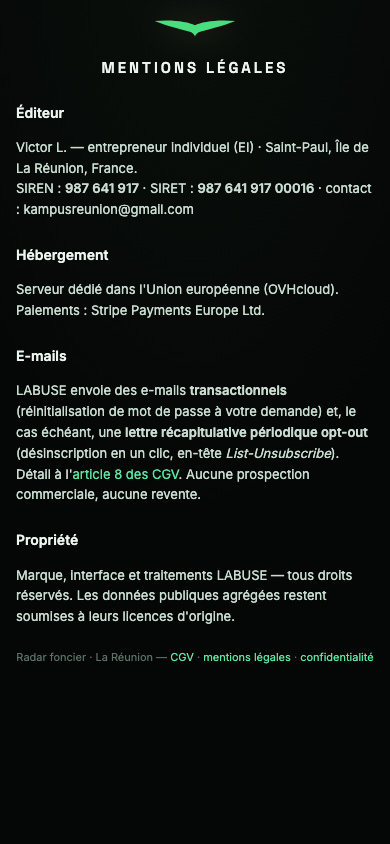
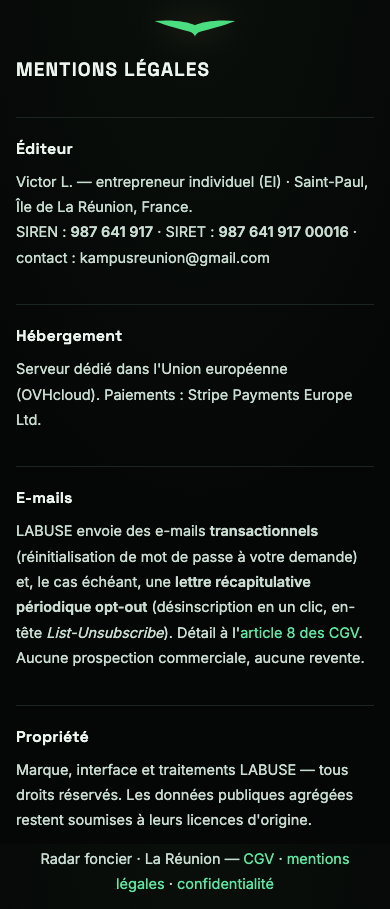
[S3] Lisibilité des pages légales : colonne de lecture, hiérarchie, sommaire CGV
- coffre_ui : mode 'legalpage' (lecture du haut, plus de bloc centré vertical), colonne ~68ch,
  articles séparés par un filet, titres Space Grotesk, interligne 1.75, corps 14.5px.
- CGV : sommaire cliquable (11 articles) en tête + ancres id + retour « ↑ Haut de page ».
- Les 3 pages légales rendues en large=True (760 conteneur / 68ch lecture), mobile 390 sans zoom.
- Fond juridique inchangé (hors S1). Planche mise à jour (verdict DA légal → lisibilité refondue).
- tests/test_legal_lisibilite.py.

diff --git a/docs/audit-2026-08/ONBOARDING/PLANCHE-ECRANS.html b/docs/audit-2026-08/ONBOARDING/PLANCHE-ECRANS.html
@@ -126,21 +126,21 @@
     </div>
   </section>
   <section class="ecran" id="14-cgv">
-    <div class="tete"><h2>CGV</h2><code>GET /cgv</code><span class="da warn">DA Coffre ✓ mais LISIBILITÉ ✗ : bloc central étroit, texte dense (corrigé en S3)</span></div>
+    <div class="tete"><h2>CGV</h2><code>GET /cgv</code><span class="da ok">DA Coffre ✓ · LISIBILITÉ refondue (S3) : sommaire, colonne ~68ch, articles séparés</span></div>
     <div class="vues">
       <figure class="desk"><figcaption>Desktop · 1440</figcaption><img loading="lazy" src="planche/14-cgv-desktop.png" alt="CGV desktop"></figure>
       <figure class="mob"><figcaption>Mobile · 390</figcaption><img loading="lazy" src="planche/14-cgv-mobile.png" alt="CGV mobile"></figure>
     </div>
   </section>
   <section class="ecran" id="15-mentions-legales">
-    <div class="tete"><h2>Mentions légales</h2><code>GET /mentions-legales</code><span class="da warn">DA Coffre ✓ mais LISIBILITÉ ✗ : bloc central étroit, texte dense (corrigé en S3)</span></div>
+    <div class="tete"><h2>Mentions légales</h2><code>GET /mentions-legales</code><span class="da ok">DA Coffre ✓ · LISIBILITÉ refondue (S3) : sommaire, colonne ~68ch, articles séparés</span></div>
     <div class="vues">
       <figure class="desk"><figcaption>Desktop · 1440</figcaption><img loading="lazy" src="planche/15-mentions-legales-desktop.png" alt="Mentions légales desktop"></figure>
       <figure class="mob"><figcaption>Mobile · 390</figcaption><img loading="lazy" src="planche/15-mentions-legales-mobile.png" alt="Mentions légales mobile"></figure>
     </div>
   </section>
   <section class="ecran" id="16-confidentialite">
-    <div class="tete"><h2>Confidentialité & cookies</h2><code>GET /confidentialite</code><span class="da warn">DA Coffre ✓ mais LISIBILITÉ ✗ : bloc central étroit, texte dense (corrigé en S3)</span></div>
+    <div class="tete"><h2>Confidentialité & cookies</h2><code>GET /confidentialite</code><span class="da ok">DA Coffre ✓ · LISIBILITÉ refondue (S3) : sommaire, colonne ~68ch, articles séparés</span></div>
     <div class="vues">
       <figure class="desk"><figcaption>Desktop · 1440</figcaption><img loading="lazy" src="planche/16-confidentialite-desktop.png" alt="Confidentialité & cookies desktop"></figure>
       <figure class="mob"><figcaption>Mobile · 390</figcaption><img loading="lazy" src="planche/16-confidentialite-mobile.png" alt="Confidentialité & cookies mobile"></figure>

diff --git a/src/labuse/api/onboarding.py b/src/labuse/api/onboarding.py
@@ -457,19 +457,32 @@ def cgv_page():
     s = get_settings()
     oi, of = offre_integral(), offre_flash()
     return HTMLResponse(_page("conditions générales", f"""
-<div class="legal">
+<div class="legal" id="haut">
 <h1>Conditions générales de vente et d'utilisation</h1>
 <p class="sous">version {s.cgv_version} — service LABUSE</p>
 <p class="maj">Contrat B2B entre professionnels. L'acceptation est recueillie à la création du
 compte (case à cocher horodatée, version consignée).</p>
+<nav class="toc" aria-label="Sommaire"><b>Sommaire</b><ol>
+<li><a href="#a1">Objet</a></li>
+<li><a href="#a2">Nature des analyses</a></li>
+<li><a href="#a3">Comptes et accès</a></li>
+<li><a href="#a4">Prix et paiement</a></li>
+<li><a href="#a4bis">Le rapport Flash</a></li>
+<li><a href="#a5">Durée et résiliation</a></li>
+<li><a href="#a6">Disponibilité</a></li>
+<li><a href="#a7">Données et données publiques</a></li>
+<li><a href="#a8">Données personnelles (RGPD)</a></li>
+<li><a href="#a9">Responsabilité</a></li>
+<li><a href="#a10">Droit applicable</a></li>
+</ol></nav>
 
-<h2>1. Objet</h2>
+<h2 id="a1">1. Objet</h2>
 <p>LABUSE est un service en ligne d'aide à la prospection foncière à La Réunion :
 agrégation, croisement et lecture de <b>données publiques</b> (cadastre, urbanisme, risques,
 marchés, publications légales), assortis d'indicateurs et d'analyses produits par des
 traitements automatisés.</p>
 
-<h2>2. Nature des analyses — la clause boussole</h2>
+<h2 id="a2">2. Nature des analyses — la clause boussole</h2>
 <p>Les scores, verdicts, badges, estimations et synthèses fournis par LABUSE constituent une
 <b>pré-analyse indicative fondée exclusivement sur des données publiques</b>, dont la
 fraîcheur et la complétude sont affichées dans le service (mentions « Sourcé » / « Estimé »).
@@ -479,14 +492,14 @@ Ils ne remplacent <b>ni un certificat d'urbanisme, ni l'instruction d'une autori
 l'intervention d'un notaire</b> ou de tout professionnel réglementé. Le Client demeure seul
 responsable de ses décisions et de leurs vérifications préalables.</p>
 
-<h2>3. Comptes et accès</h2>
+<h2 id="a3">3. Comptes et accès</h2>
 <p>La création de compte se fait sur invitation. Une licence Intégral ouvre <b>un accès
 nominatif unique</b> (1 licence = 1 utilisateur) ; les identifiants sont personnels et
 incessibles. LABUSE peut suspendre un compte en cas d'impayé (après les relances du
 prestataire de paiement) ou d'usage abusif (extraction massive, revente de données,
 partage d'accès, contournement technique).</p>
 
-<h2>4. Prix et paiement</h2>
+<h2 id="a4">4. Prix et paiement</h2>
 <p><b>Intégral</b> : abonnement mensuel de {oi['eur_mois']} € par licence, accès complet au service.
 <b>Flash</b> : {of['eur']} € par rapport — paiement unique donnant droit à UN rapport PDF portant
 sur UNE parcelle, téléchargeable pendant {of['validite_lien_jours']} jours (article 4 bis). Prix hors taxes le cas
@@ -494,7 +507,7 @@ sur UNE parcelle, téléchargeable pendant {of['validite_lien_jours']} jours (ar
 <b>Stripe</b> (paiement hébergé : aucune donnée de carte ne transite par LABUSE), factures
 et reçus émis par Stripe.</p>
 
-<h2>4 bis. Le rapport Flash</h2>
+<h2 id="a4bis">4 bis. Le rapport Flash</h2>
 <p>Le rapport Flash est un document numérique généré et livré immédiatement après paiement.
 <b>L'exécution commence dès le paiement, à la demande expresse de l'acheteur, qui renonce
 le cas échéant à son droit de rétractation</b> (contenu numérique fourni immédiatement).
@@ -502,7 +515,7 @@ Le rapport porte exclusivement sur la parcelle confirmée par l'acheteur avant p
 l'article 2 (nature des analyses) s'y applique intégralement. En cas d'échec technique de
 génération, LABUSE fournit le rapport par tout moyen ou rembourse le paiement.</p>
 
-<h2>5. Durée et résiliation</h2>
+<h2 id="a5">5. Durée et résiliation</h2>
 <p>L'abonnement Intégral est <b>mensuel et sans engagement de durée</b> : il se reconduit tacitement
 de mois en mois par prélèvement automatique, tant que le Client ne l'a pas résilié.</p>
 <p>Le Client peut résilier <b>à tout moment</b> par <b>demande écrite adressée à LABUSE</b>
@@ -512,19 +525,19 @@ Aucun engagement au-delà du mois en cours n'est requis.</p>
 <p>LABUSE peut de son côté résilier l'abonnement avec un <b>préavis de 30 jours</b> ; en cas d'arrêt
 du service, les sommes correspondant à la période payée non servie sont remboursées.</p>
 
-<h2>6. Disponibilité</h2>
+<h2 id="a6">6. Disponibilité</h2>
 <p>LABUSE est fourni « en l'état », avec un engagement de <b>meilleurs efforts</b> sur la
 disponibilité et la correction des incidents — sans niveau de service (SLA) chiffré ni
 pénalités. Les interruptions de maintenance sont, autant que possible, programmées hors
 heures ouvrées de La Réunion.</p>
 
-<h2>7. Données du Client et données publiques</h2>
+<h2 id="a7">7. Données du Client et données publiques</h2>
 <p>Les projets, tris, annotations et paramètres créés par le Client lui appartiennent ; il
 peut en demander l'export puis l'effacement. Les données publiques agrégées restent régies
 par leurs licences d'origine (Licence Ouverte, etc.). Le Client s'interdit la revente ou la
 rediffusion systématique des contenus du service.</p>
 
-<h2>8. Données personnelles (RGPD)</h2>
+<h2 id="a8">8. Données personnelles (RGPD)</h2>
 <p>Données traitées : email, nom du compte, journal technique de connexion, données de
 facturation (chez Stripe). Aucune donnée de carte chez LABUSE. Finalités : fourniture du
 service, facturation, sécurité. Durée : la vie du compte, puis effacement sous 30 jours de
@@ -537,16 +550,17 @@ adresser une <b>lettre récapitulative périodique</b> (« le point de la semain
 chaque envoi porte un lien de <b>désinscription en un clic</b> (en-tête <i>List-Unsubscribe</i>) et
 vous pouvez vous y opposer à tout moment. <b>Aucune prospection commerciale, aucune revente de données.</b></p>
 
-<h2>9. Responsabilité</h2>
+<h2 id="a9">9. Responsabilité</h2>
 <p>Dans les limites permises par la loi entre professionnels, la responsabilité totale de
 LABUSE, toutes causes confondues, est plafonnée aux <b>sommes effectivement payées par le
 Client au cours des douze (12) derniers mois</b>. Les dommages indirects (perte de chance,
 d'exploitation, décision d'investissement) sont exclus — dans le prolongement de l'article 2.</p>
 
-<h2>10. Droit applicable</h2>
+<h2 id="a10">10. Droit applicable</h2>
 <p>Droit français. Compétence : les tribunaux dans le ressort de Saint-Denis de La Réunion,
 après tentative de résolution amiable (30 jours).</p>
-</div>"""), status_code=200)
+<p><a class="haut" href="#haut">↑ Haut de page</a></p>
+</div>""", large=True), status_code=200)
 
 
 @router.get("/mentions-legales", include_in_schema=False)
@@ -561,7 +575,7 @@ passe à votre demande) et, le cas échéant, une <b>lettre récapitulative pér
 (désinscription en un clic, en-tête <i>List-Unsubscribe</i>). Détail à l'<a href="/cgv">article 8
 des CGV</a>. Aucune prospection commerciale, aucune revente.</p>
 <h2>Propriété</h2><p>Marque, interface et traitements LABUSE — tous droits réservés. Les
-données publiques agrégées restent soumises à leurs licences d'origine.</p></div>"""))
+données publiques agrégées restent soumises à leurs licences d'origine.</p></div>""", large=True))
 
 
 @router.get("/confidentialite", include_in_schema=False)
@@ -575,7 +589,7 @@ d'audience tierce — c'est pourquoi <b>aucun bandeau de consentement n'est requ
 <h2>Données</h2><p>Voir l'article 8 des <a href="/cgv">CGV</a> (RGPD) : données minimales,
 finalités limitées, droit d'accès et d'effacement sur simple email.</p>
 <h2>Journalisation</h2><p>Les journaux techniques (connexions, erreurs) ne contiennent ni
-mot de passe, ni token, ni donnée de carte ; ils servent la sécurité du service.</p></div>"""))
+mot de passe, ni token, ni donnée de carte ; ils servent la sécurité du service.</p></div>""", large=True))
 
 
 # ── /moi — l'app lit qui je suis + l'état d'abonnement (bandeau « paiement requis ») ──

diff --git a/src/labuse/api/coffre_ui.py b/src/labuse/api/coffre_ui.py
@@ -112,9 +112,26 @@ a:focus-visible{outline:2px solid var(--mint);outline-offset:2px;border-radius:3
 .big .mark{width:52px;height:52px;border-radius:50%;display:flex;align-items:center;justify-content:center;margin:0 auto 14px;font-size:24px}
 .mark.ok{background:rgba(92,230,161,.12);color:var(--mint);border:1px solid rgba(92,230,161,.4)}
 .mark.soft{background:rgba(232,180,76,.1);color:var(--warn);border:1px solid rgba(232,180,76,.35)}
-.legal h2{color:var(--hi);font-size:14px;margin:24px 0 6px}
-.legal p{font-size:13px;color:var(--txt)}
-.legal .maj{color:var(--dim);font-size:11.5px}
+/* S3 — LISIBILITÉ des pages légales : longue lecture, pas un bloc centré étroit.
+   Le corps se lit du haut (legalpage), dans une colonne ~68ch, aérée. */
+body.legalpage{align-items:flex-start}
+.legalpage .bloc{max-width:760px}
+.legal{max-width:68ch;margin:0 auto;text-align:left}
+.legal h1{text-align:left;font-size:19px;letter-spacing:.06em;margin:4px 0 4px}
+.legal .sous{text-align:left;letter-spacing:.06em;font-size:12px;margin:0 0 6px}
+.legal .maj{color:var(--mut);font-size:12.5px;line-height:1.6;margin:0 0 8px}
+/* sommaire cliquable (CGV) */
+.toc{background:var(--s2);border:1px solid var(--line);border-radius:var(--r);padding:16px 20px;margin:18px 0 6px}
+.toc b{display:block;font:600 11px 'Space Grotesk',system-ui,sans-serif;letter-spacing:.14em;text-transform:uppercase;color:var(--mut);margin:0 0 10px}
+.toc ol{margin:0;padding-left:20px;columns:2;column-gap:28px}
+.toc li{margin:4px 0;font-size:13.5px;break-inside:avoid}
+.toc a{color:var(--txt)} .toc a:hover{color:var(--mint)}
+/* articles : titre net, filet de séparation, interligne aéré */
+.legal h2{color:var(--hi);font:600 16px 'Space Grotesk',system-ui,sans-serif;letter-spacing:.01em;
+  margin:34px 0 10px;padding-top:20px;border-top:1px solid var(--line);scroll-margin-top:16px}
+.legal p{font-size:14.5px;line-height:1.75;color:var(--txt);margin:0 0 13px}
+.legal .haut{display:inline-block;font-size:12px;color:var(--mut);margin:6px 0 0}
+.legal .haut:hover{color:var(--mint)}
 .card{background:var(--s2);border:1px solid var(--line);border-radius:var(--r);padding:22px}
 @media (prefers-reduced-motion:reduce){*{animation:none!important;transition:none!important}}
 @media (max-width:480px){body{padding:16px;align-items:flex-start}.recap .prix{font-size:22px}}
@@ -137,6 +154,9 @@ LOCK_SVG = ('<svg width="16" height="16" viewBox="0 0 20 20" fill="none" stroke=
 def page(titre: str, corps: str, *, w: int | None = None, legal: bool = False, head: str = "") -> str:
     wvar = f"--w:{w}px;" if w else ""
     cls = "legal" if legal else ""
+    # S3 — les pages légales sont de LONGS documents : le corps se lit du HAUT (pas centré
+    # verticalement) et dans une colonne de lecture confortable (voir CSS `.legalpage`/`.legal`).
+    body_cls = ' class="legalpage"' if legal else ""
     return (f"<!doctype html><html lang=\"fr\"><head><meta charset=\"utf-8\">"
             f"<meta name=\"viewport\" content=\"width=device-width,initial-scale=1\">"
             f"<meta name=\"robots\" content=\"noindex\">"
@@ -153,4 +173,4 @@ def page(titre: str, corps: str, *, w: int | None = None, legal: bool = False, h
             f"<link href=\"https://fonts.googleapis.com/css2?family=Space+Grotesk:wght@600;700&"
             f"family=Inter:wght@400;500;600&display=swap\" rel=\"stylesheet\">"
             f"<style>{CSS}</style>{head}</head>"
-            f"<body style=\"{wvar}\"><main class=\"{cls} bloc\" role=\"main\" style=\"{wvar}\">{corps}</main></body></html>")
+            f"<body{body_cls} style=\"{wvar}\"><main class=\"{cls} bloc\" role=\"main\" style=\"{wvar}\">{corps}</main></body></html>")

diff --git a/tests/test_legal_lisibilite.py b/tests/test_legal_lisibilite.py
@@ -1,0 +1,47 @@
+"""S3 (lisibilité des pages légales) — structure de lecture des 3 pages légales.
+
+Le fond juridique ne change pas ; on gèle la PRÉSENTATION : sommaire cliquable + ancres pour la
+CGV, colonne de lecture (mode legal), retour en haut.
+"""
+from __future__ import annotations
+
+import re
+
+import pytest
+from fastapi.testclient import TestClient
+
+pytestmark = pytest.mark.db
+
+
+@pytest.fixture
+def client(engine):
+    from labuse.api.app import app
+    return TestClient(app, base_url="https://testserver")
+
+
+def test_cgv_sommaire_cliquable_et_ancres(client):
+    html = client.get("/cgv").text
+    # sommaire présent
+    assert 'class="toc"' in html and "Sommaire" in html
+    # 11 ancres d'articles (1–10 + 4 bis) et autant de cibles href="#aN"
+    ancres = set(re.findall(r'<h2 id="(a\w+)">', html))
+    assert {"a1", "a4bis", "a5", "a9", "a10"} <= ancres and len(ancres) == 11
+    for a in ancres:
+        assert f'href="#{a}"' in html
+    # retour en haut
+    assert 'href="#haut"' in html and "Haut de page" in html
+
+
+def test_pages_legales_en_mode_lecture(client):
+    """Les 3 pages légales rendent en mode « legalpage » (colonne de lecture, pas bloc 400px)."""
+    for url in ("/cgv", "/mentions-legales", "/confidentialite"):
+        html = client.get(url).text
+        assert 'class="legalpage"' in html, f"{url} pas en mode lecture"
+        assert 'class="legal"' in html
+
+
+def test_css_colonne_de_lecture_confortable():
+    """La CSS légale impose une colonne ~68ch (ni bloc 400px étroit, ni pleine largeur)."""
+    from labuse.api import coffre_ui
+    assert ".legal{max-width:68ch" in coffre_ui.CSS.replace("\n", "")
+    assert "body.legalpage{align-items:flex-start}" in coffre_ui.CSS
